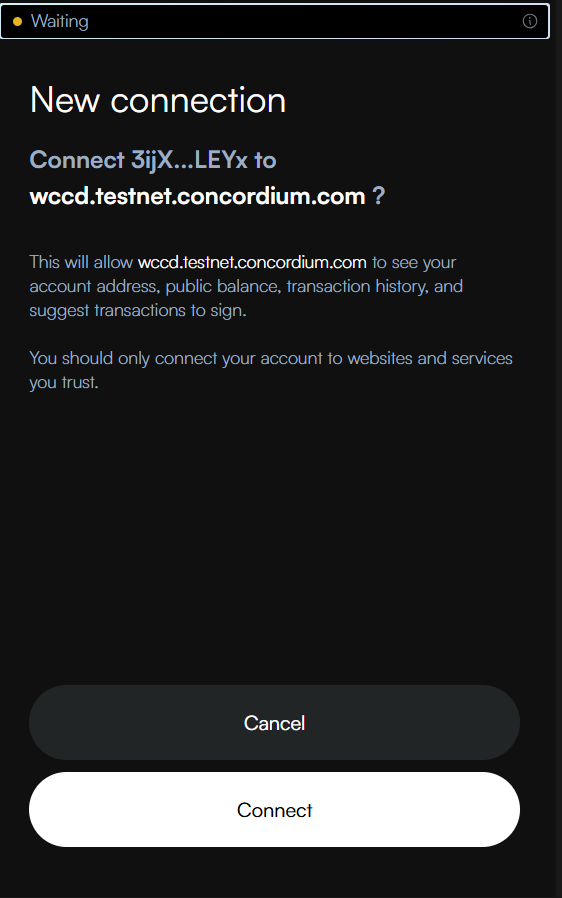
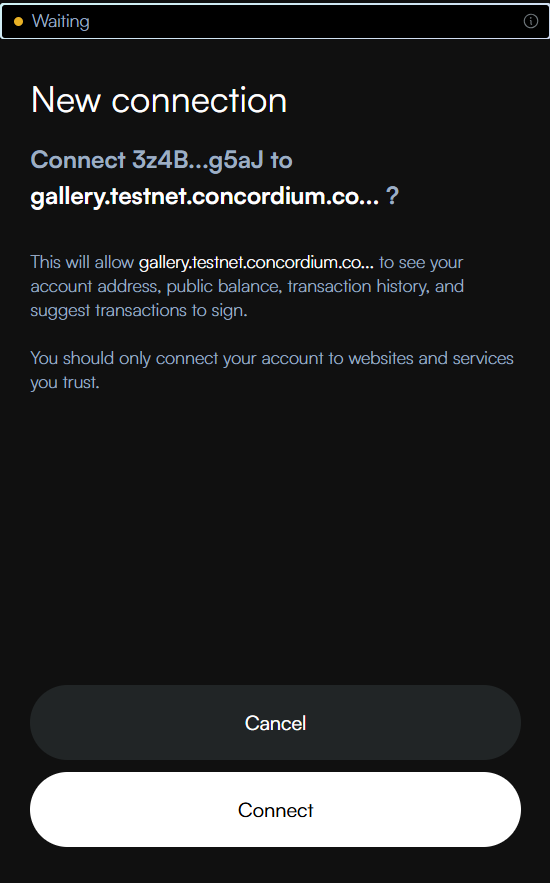
updated Connect dApps to wallets page

diff --git a/source/mainnet/docs/browser-wallet/connect-app.rst b/source/mainnet/docs/browser-wallet/connect-app.rst
@@ -37,21 +37,26 @@ Then, the dApp can initiate a request that you can confirm from within the walle
 
    To initiate a request to connect to a dApp within the |bw|:
 
-   #. In the browser navigate to your dApp's frontend interface.
+   #. In the browser, navigate to your dApp's frontend interface and make a connection request to your wallet.
 
-   #. Go to the **Accounts** page.
+   #. A connection request window opens in your wallet. Review the details and click **Connect** to approve acess for the dApp.
 
-   #. Click |gear|.
+   .. image:: ../images/browser-wallet/new/connect_dApp.png
+      :alt: window with a site and Connect text
+      :width: 50%
 
-   #. Click **Connected Sites**.
 
-   #. Your site appears in the list. Click **Connect**.
+   To view or manage the connection status of your account, click **See list** under *Connected accounts* on the account card.
 
-      .. image:: ../images/browser-wallet/connect-site.png
-               :width: 50%
-               :alt: window with a site and Connect text
+   .. image:: ../images/browser-wallet/new/see_list.png
+      :width: 50%
+      :alt: account card
 
-   The status of the account changes to *Connected*. If you need to disconnect, click **Disconnect** to disconnect the account from the dApp.
+   To disconnect a dApp, find it in the *Connected sites* list and click **Disconnect**.
+
+   .. image:: ../images/browser-wallet/new/disconnect_dApp.png
+      :width: 50%
+      :alt: account card
 
 .. note::
 
